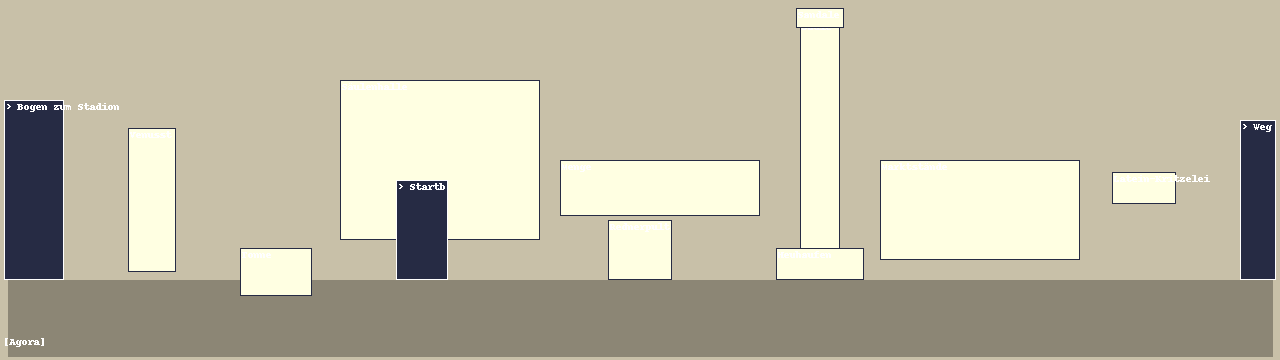
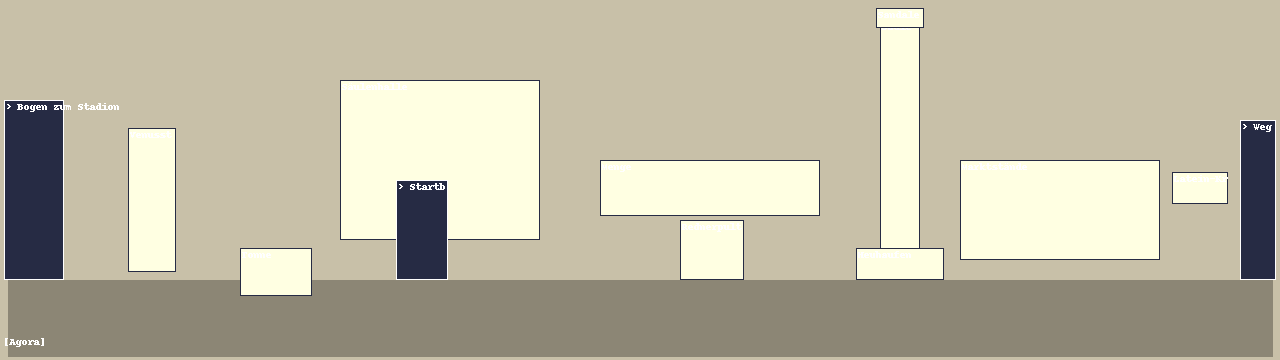
Welt 2: Motive an die Anordnung im Spiel angeglichen, Agora entzerrt
Fährsteg Olympia, Hafen Syrakus, Archimedes' Werkstatt, Startbüro und Agora beschrieben
Dinge in anderer Reihenfolge, als Layout, Klickflächen und Skizzen sie haben; die Motive folgen
jetzt dem Spiel. Agora: Rednerpult aus der Bildnaht in die rechte Hälfte, Säule, Heuhaufen und
Marktstände dahinter, Brian und Straßenmusiker nach links, Touristen mit mehr Abstand.
Palastküche, Sphinx und Grabhügel passten schon.

Changed region(s): [[0.4688, 0.0, 0.8125, 0.7944], [0.8438, 0.4278, 0.9688, 0.7333], [0.4375, 0.4278, 0.5, 0.6111]]

diff --git a/docs/grafik/welt-2.md b/docs/grafik/welt-2.md
@@ -57,16 +57,16 @@ Zu den Motiven: Jedes Motiv nennt links, Mitte und rechts in Bildrichtung, die A
 | Szene | Epoche | Zustände | Muss sichtbar sein | Motiv |
 | --- | --- | --- | --- | --- |
 | Nil-Delta mit Fährsteg | Ägypten | 1280×360, linke und rechte Hälfte einzeln erzeugen | Fährsteg ganz links mit offenem Wasser am Stegende für die Fähre, Tafel (Nahansicht) und Sanduhr am Steg, Schilf, Weizenfeld mit Handabdruck, verkehrte Pyramide im Hintergrund, Dünenpfad hinten rechts als Ausgang zur Sphinx (Sphinx klein am Horizont), Sandweg am rechten Bildrand als Ausgang zum Palast (Thronsaal). Ausschneiden: Papyrusblatt im Schilf. Eigene Sprites: Krokodil-Fähre, Sobek, Fährmann, Steinmetz; Deko-Sprite verkehrt gehaltener Bauplan | Sunny Nile riverbank at noon, wide 1280x360 scene built from two 640x360 halves that join seamlessly. LEFT HALF, left to right: a wooden ferry dock at the left edge reaching into turquoise water, with open water at its end; beside the dock a blank wooden sign board with three carved rows and a tall hourglass on a post; tall papyrus reeds with one loose blank sheet caught in them; open sandy ground. RIGHT HALF, left to right: a small field of golden wheat, one row of stalks pressed flat in the shape of a hand; open sandy ground; a narrow trail climbing a dune toward a tiny distant sphinx on the horizon; a sandy path leaving at the right edge toward a palace gate. Background across both halves: the wide river, and across it, behind the wheat field, a stone pyramid standing upside down on its tip with wooden scaffolding and tiny workers scratching their heads. Sandy floor with gentle depth in the lower third kept clear. Harsh sun from upper left |
-| Fährsteg Olympia | Griechenland | – | Fährsteg mit Sanduhr und Tafel (dieselbe Tafel wie in Ägypten), Fischerboot, Olivenbäume, Steinweg zur Agora rechts als Ausgang | Small wooden dock on a calm blue river among olive trees, bright midday, 640x360. Left: reeds and an empty wooden fishing boat pulled onto the bank. Center: the dock reaching into the water with open water at its end, a tall hourglass on a post and a blank wooden sign board with three carved rows. Right: a stone path climbing a hill to white marble columns, leaving at the right edge. Olive trees in the background. Grass and sand floor with gentle depth in the lower third kept clear. Sun from upper left |
-| Hafen Syrakus | Griechenland | – | Fährsteg mit Sanduhr (Sand ganz unten) und Tafel links, Kai mit Amphoren und Fischernetzen, Gasse zur Werkstatt rechts als Ausgang, Pfad zum Grabhügel im Hintergrund. Ausschneiden: Tintenfisch im Netz | Sunny harbor where the river meets the sea, 640x360, open sea behind. Left: the ferry dock with open water at its end, a tall hourglass on a post with all its sand in the lower bulb, a blank wooden sign board. Center: a stone quay with amphoras lined up and fishing nets hung to dry, one net sagging low with a small purple squid in it. Right: a narrow street climbing to a workshop with a smoking chimney and a big wooden gear above its door, leaving at the right edge; a path up a hill to cypress trees in the background. Seagulls. Stone quay floor with gentle depth in the lower third kept clear. Bright sun from upper left |
+| Fährsteg Olympia | Griechenland | – | Fährsteg ganz links mit offenem Wasser am Stegende, Sanduhr und Tafel (dieselbe Tafel wie in Ägypten) am Steg, Olivenbäume im Hintergrund, Fischerboot am Ufer rechts der Mitte, Steinweg zur Agora am rechten Rand als Ausgang. Eigenes Sprite: Fährmann | Small wooden dock on a calm blue river among olive trees, bright midday, 640x360. Left: the dock at the left edge reaching into the water with open water at its end, beside it a tall hourglass on a post and a blank wooden sign board with three carved rows. Center: open grassy ground, olive trees in the background behind it. Right of center: an empty wooden fishing boat pulled onto the bank, a few reeds. Right: a stone path climbing a hill to white marble columns, leaving at the right edge. Grass and sand floor with gentle depth in the lower third kept clear. Sun from upper left |
+| Hafen Syrakus | Griechenland | – | Fährsteg links mit Sanduhr (Sand ganz unten) und Tafel, offenes Meer dahinter, Fischernetze mit Tintenfisch, Pfad zum Grabhügel in der Mitte im Hintergrund, Amphoren am Kai rechts der Mitte, Gasse zur Werkstatt am rechten Rand als Ausgang. Ausschneiden: Tintenfisch im Netz. Eigenes Sprite: Fährmann | Sunny harbor where the river meets the sea, 640x360, open sea behind on the left. Left: the ferry dock at the left edge with open water at its end, a tall hourglass on a post with all its sand in the lower bulb, a blank wooden sign board. Left of center: fishing nets hung to dry on poles, one net sagging low with a small purple squid in it. Center, in the background: a path climbing a hill to cypress trees. Right of center: a stone quay with amphoras lined up. Right: a narrow street climbing to a workshop with a smoking chimney and a big wooden gear above its door, leaving at the right edge. Seagulls. Stone quay floor with gentle depth in the lower third kept clear. Bright sun from upper left |
 | Thronsaal | Ägypten innen | 1280×360, linke und rechte Hälfte einzeln erzeugen; die Parade findet im Stadion von Olympia statt | Ausgang links zum Nil-Delta, Platz für den Sarkophag, Schreiberpult, leere Wandnische, bemalte Säule mit Inschrift-Tafel (Nahansicht Hieroglyphen-Grammatik), Kissen mit Opferschale voller Datteln (Platz des Hofkaters), Thron auf Stufen, Fackeln, Tür zur Palastküche rechts, Wandfries über die ganze Rückwand. Ausschneiden: Pharaonenteller. Eigene Sprites: Ramses, Hofkater, Schreiber, Fächerwedler; Deko-Sprites Sarkophag mit Schlafmaske, mumifizierte Katze in der Nische | Grand Egyptian throne room, wide 1280x360 scene built from two 640x360 halves that join seamlessly, plenty of open floor between the furniture. LEFT HALF, left to right: the palace entrance at the left edge with free floor beside it; a scribe's low desk with a clay tablet and reed pens; a small empty wall niche above head height; a tall painted column; a second column with a sandstone panel set into it showing four empty symbol slots. RIGHT HALF, left to right: an empty silk cushion on the floor with a small bowl of dates beside it; a golden throne on three steps; a golden plate engraved with a sun on a low stand beside the throne; torches on the back wall; tall wooden doors to the palace kitchen at the right edge. Back wall across both halves: painted columns and a long frieze of people dancing sideways with angled arms, one holding a large portable stereo. Polished stone floor with gentle depth in the lower third kept clear. Torchlight and sunbeams from upper left |
 | Palastküche | Ägypten innen | – | Lehmöfen, Schneidetisch mit Brot, Zwiebeln und Datteln, Kräuter, Ölkrüge im Regal, Traubensaft-Amphore, Tür zum Thronsaal links. Ausschneiden: ein Ölkrug (ganzer Krug), Traubensaft-Amphore. Eigenes Sprite: Nebet; Deko-Sprite leere Amphoren in der freien Ecke | Ancient Egyptian palace kitchen, 640x360. Left: the doorway to the throne room at the left edge, two round clay ovens with open fire. Center: a cutting table with flat breads, onions and a bowl of dates, bundles of garlic and herbs hanging above it. Right: a wooden shelf with tall round clay oil jugs with cork stoppers, on the floor a clay amphora painted with grapes, and a free corner beside it. Packed clay floor with gentle depth in the lower third kept clear. Steam, warm orange light from upper left |
 | Sphinx | Ägypten | Mit Nase und ohne Nase | Sphinx mit Nase (zweite Fassung ohne Nase, Nase im Sand), Schreibpult mit Notizblock und zerknüllten Papyri, Steinkugel in der Rinne über dem Pult, Fußspuren, Weg zurück links zum Nil-Delta. Das Gesicht spricht selbst: Claude baut Mundbilder aus dem Hintergrund | A huge stone sphinx lying in the desert, seen from its side, head on the right, 640x360, its body filling the upper right half, nose intact. Center: in front of its paws a small writing desk with a notepad, crumpled papyrus balls scattered around it; above the desk, on a sloped stone ledge, a giant round stone ball resting in a carved groove. Left: open dunes, footprints in the sand, the path back at the left edge. Sand floor with gentle depth in the lower third kept clear. Blue sky, heat shimmer, harsh sun from upper left. Second version: identical, but the nose broken off and lying in the sand below the face |
-| Archimedes' Werkstatt | Griechenland | – | Badewanne, Werkbank mit Waage, Messbecher, Zahnrädern und Schriftrollen, Essigkrug, Brennspiegel, Wasserorgel, Skizze Kugel und Zylinder, Fenster, Tür rechts zum Hafen. Ausschneiden: Waage, Messbecher, Brennspiegel, Essigkrug. Eigene Sprites: Archimedes, Hieron, Wurfhebel (Große Objekte) auf der freien Fläche vor der Tür, Krone und Goldbarren aus dem Sammelbild; Deko-Sprites Bauplan Dampfmaschine, Modell schiefer Turm auf dem Regal | Cluttered ancient Greek inventor's workshop, 640x360. Left: a wide window at upper left, below it a marble bathtub full of water and a large polished bronze mirror on a stand. Center: a workbench with a bronze balance scale, a clay measuring cup, scattered gears and scrolls, a big clay jug with a painted sour face on the floor beside it. Right: a water organ with bronze pipes against the back wall, the workshop door at the right edge, free floor space in front of it. Back wall: pinned sketches, one clearly showing a sphere inside a cylinder, and an empty shelf. Floor with gentle depth in the lower third kept clear. Sunlight from upper left |
+| Archimedes' Werkstatt | Griechenland | – | Wasserorgel links an der Rückwand, Badewanne davor, Werkbank mit Waage, Messbecher, Zahnrädern und Schriftrollen, darüber Skizzen (Kugel und Zylinder, Dampfmaschine) und ein leeres Regal, breites Fenster rechts der Mitte mit freier Fläche darunter (Wurfhebel), Brennspiegel auf Ständer und Essigkrug rechts, Tür rechts zum Hafen. Ausschneiden: Waage, Messbecher, Brennspiegel, Essigkrug. Eigene Sprites: Archimedes, Hieron, Wurfhebel, Krone und Goldbarren aus dem Sammelbild; Deko-Sprites Bauplan Dampfmaschine, Modell schiefer Turm auf dem Regal | Cluttered ancient Greek inventor's workshop, 640x360. Left: a water organ with bronze pipes against the back wall, in front of it a marble bathtub full of water. Left of center: a workbench with a bronze balance scale, a clay measuring cup, scattered gears and scrolls; above it on the back wall pinned sketches, one clearly showing a sphere inside a cylinder, and a small empty shelf. Right of center: a wide window high on the back wall, open free floor below it. Right: a large polished bronze mirror on a stand, a big clay jug with a painted sour face on the floor, the workshop door at the right edge. Floor with gentle depth in the lower third kept clear. Sunlight from upper left through the window |
 | Grabhügel Syrakus | Griechenland | Leer und mit verwittertem Grabstein | Leerer Sockel in der Mitte (Grabstein als Sprite aus dem Sammelbild „Grabstein-Zustände“, auch der zerbröselte Haufen), alte Grabsteine, Brombeeren, Zypressen, Weg zum Hafen links. Eigene Sprites: Cicero, Archimedes | Overgrown hillside outside a Greek city, late afternoon, 640x360. Left: the path down to the harbor at the left edge, brambles and thorn bushes. Center: a small clearing with an empty square stone base. Right: old tombstones half hidden in the green, tall cypress trees, the city walls in the distance. Dry grass floor with gentle depth in the lower third kept clear. Warm light from upper left, cicadas on the branches. Second version: identical, on the base stands a weathered, moss-covered tombstone with a relief of a sphere inside a cylinder |
 | Stadion | Griechenland | 1280×360, linke und rechte Hälfte einzeln erzeugen; Normal und Parade (ab dem Ende des Finaltags) | Freie Fläche links für den Wurfhebel, Sandgrube mit Steinmäuerchen, Kampfrichterzelt, Laufbahn über die ganze Breite, Ehrenloge für Ramses in den Rängen, Startlinie rechts, Glockenturm im Hintergrund rechts (gerade, in der Parade-Fassung schief), Ausgang zur Agora am rechten Rand. Eigene Sprites: Leonidas, Hermes, Schildkröte, Wurfhebel, Ramses mit Hofstaat, Fächerwedler, Zeremonienmeister, Ägypter, Archimedes, Cicero; Deko-Sprite Siegerliste aus Stein | Ancient Greek stadium in bright sun, wide 1280x360 scene built from two 640x360 halves that join seamlessly, with lots of open ground for many people. LEFT HALF, left to right: open free ground at the left edge; a sand wrestling pit framed by a low stone wall; a small white judges' tent near the right end of the half. RIGHT HALF, left to right: open ground; a white stone start line across the track; far away a tall white marble bell tower standing perfectly straight; the path to the marketplace leaving at the right edge. Across both halves: a long sand running track along the floor, and behind it stone spectator rows with a cheering crowd, with a shaded seating box with an awning in the rows at the left end of the right half. Floor with gentle depth in the lower third kept clear. Sun from upper left. Second version for the victory parade: identical, with garlands, banners and flower petals everywhere, the bell tower now visibly leaning |
-| Startbüro | Griechenland | – | Startschalter links mit Formularberg, Bürgerschalter rechts mit Wachstafeln und Stempel, Aushang (Nahansicht), Bank mit Wartenden, Tür links zur Agora. Ausschneiden: ein leeres Formular vom Formularberg. Eigene Sprites: Beamter 1, Beamter 2 | Tiny ancient Greek office, 640x360. Left: the entrance door at the left edge, then a first counter with an empty stool behind towering stacks of scrolls and a heap of blank papyrus forms. Right: a second counter with wax tablets and a big wooden stamp, an empty stool behind it. Center back: a yellowed notice with blank lines pinned to the wall, below it a long bench with three bored waiting people. Dusty stone floor with gentle depth in the lower third kept clear. Dusty shafts of light from upper left |
-| Agora | Griechenland | Drei Fassungen: vor Tag 1; nach Tag 1 mit Sandale auf der Adler-Säule; nach dem Finaltag ohne Sandale und mit armloser Statue | 1280×360, linke und rechte Hälfte einzeln erzeugen. Säulenhalle, hohe Säule mit Adler, Venusstatue, Wand für die Latein-Kritzelei (von Hand), Rednerpult, Marktstände, Menge mit römischen Touristen im Hintergrund. Ausgänge: Bogen zum Stadion links, Tür zum Startbüro in der Säulenhalle, Weg zum Fährsteg rechts. Eigene Sprites: Cicero, Tiro, Brian, Philosoph in der Tonne, Touristin und Tourist, Straßenmusiker, Sandale aus dem Sammelbild; Deko-Sprite Heuhaufen am Fuß der Säule | Busy ancient Greek marketplace next to a stadium at noon, wide 1280x360 scene built from two 640x360 halves that join seamlessly. LEFT HALF, left to right: an arch toward the stadium at the left edge; a shaded marble colonnade with a small wooden office door in its back wall; a very tall column with a stone eagle on top and free ground at its foot; a marble statue of a woman with both arms intact; a plaster wall with a few faint blank scratch marks. RIGHT HALF, left to right: a raised stone speaker's platform; open ground; market stalls with fruit and pottery under striped awnings; a path down toward the river leaving at the right edge. Background across both halves: a crowd of Greeks in white and pale blue and tourists in red togas and straw sun hats. Paved floor with gentle depth in the lower third kept clear. Bright noon light from upper left. Second version: identical, a golden winged sandal caught on top of the eagle column. Third version: identical to the first, but the statue has lost both arms |
+| Startbüro | Griechenland | – | Tür links zur Agora, Aushang (Nahansicht) an der Wand über einer Bank mit drei Wartenden, erster Schalter mit leerem Hocker und Schriftrollen-Stapeln, zweiter Schalter mit Wachstafeln und Stempel, riesiger Formularberg am rechten Rand. Ausschneiden: ein leeres Formular vom Formularberg. Eigene Sprites: Beamter 1, Beamter 2 | Tiny ancient Greek office, 640x360. Left: the entrance door at the left edge, a yellowed notice with blank lines pinned to the wall next to it, below it a long bench with three bored waiting people. Center: a first counter with an empty stool behind it and towering stacks of scrolls; a second counter with wax tablets and a big wooden stamp, an empty stool behind it. Right: a huge heap of blank papyrus forms piled up to the ceiling at the right edge. Dusty stone floor with gentle depth in the lower third kept clear. Dusty shafts of light from upper left |
+| Agora | Griechenland | Drei Fassungen: vor Tag 1; nach Tag 1 mit Sandale auf der Adler-Säule; nach dem Finaltag ohne Sandale und mit armloser Statue | 1280×360, linke und rechte Hälfte einzeln erzeugen. Bogen zum Stadion am linken Rand, Venusstatue, freie Fläche für die Tonne des Philosophen, Säulenhalle mit Tür zum Startbüro, Rednerpult, hohe Säule mit Adler und freiem Boden davor (Heuhaufen), Marktstände, Wand für die Latein-Kritzelei (von Hand), Weg zum Fährsteg am rechten Rand, Menge mit römischen Touristen im Hintergrund. Eigene Sprites: Cicero, Tiro, Brian, Philosoph in der Tonne, Touristin und Tourist, Straßenmusiker, Sandale aus dem Sammelbild; Deko-Sprite Heuhaufen am Fuß der Säule | Busy ancient Greek marketplace next to a stadium at noon, wide 1280x360 scene built from two 640x360 halves that join seamlessly, with open ground between the landmarks. LEFT HALF, left to right: an arch toward the stadium at the left edge; a marble statue of a woman with both arms intact; open free ground; a shaded marble colonnade with a small wooden office door in its back wall; open ground. RIGHT HALF, left to right: a raised stone speaker's platform; a very tall column with a stone eagle on top and free ground at its foot; market stalls with fruit and pottery under striped awnings; a plaster wall with a few faint blank scratch marks; a path down toward the river leaving at the right edge. Background across both halves: a crowd of Greeks in white and pale blue and tourists in red togas and straw sun hats. Paved floor with gentle depth in the lower third kept clear. Bright noon light from upper left. Second version: identical, a golden winged sandal caught on top of the eagle column. Third version: identical to the first, but the statue has lost both arms |
 | Flusskarte | Ägypten | – | Reihenfolge der Anlegestellen flussabwärts: Ägypten, Olympia, Syrakus; drei klar getrennte Klickflächen. Namen und Jahreszahlen (112 und 25) von Hand | KARTE: illustrated map of one river flowing from the upper left to the lower right. Upper left: yellow desert with a small upside-down pyramid, a sphinx and a wooden dock. Middle: green olive hills with an oval stadium, white columns and a wooden dock. Lower right: a walled seaside city with a harbor where the river meets the sea. A tiny crocodile pulling a raft on the river. The three docks as clearly separated clickable spots, no text, no labels |
 
 ### Große Objekte

diff --git a/docs/grafik/fertige-prompts/welt-2.md b/docs/grafik/fertige-prompts/welt-2.md
@@ -124,7 +124,7 @@ macht Claude.
 
 ```text
 STYLE: Concept art for a 2D point-and-click adventure game in the style of classic 1990s adventure games, outdoor scene seen straight on like a wide stage, camera at the eye level of a standing person, horizon at about 40 percent of the image height, open walkable ground with gentle depth across the lower third kept free of objects except at the left and right edges, wide shot: a standing adult at the front edge would be about 52 percent of the image height, no top-down, bird's-eye or strong three-quarter view, no fisheye, every object drawn exactly as described and nothing added, signs and labels without any letters or numbers, light from the upper left with soft shadows to the lower right, humorous and whimsical.
-SCENE: Small wooden dock on a calm blue river among olive trees, bright midday, 640x360. Left: reeds and an empty wooden fishing boat pulled onto the bank. Center: the dock reaching into the water with open water at its end, a tall hourglass on a post and a blank wooden sign board with three carved rows. Right: a stone path climbing a hill to white marble columns, leaving at the right edge. Olive trees in the background. Grass and sand floor with gentle depth in the lower third kept clear. Sun from upper left.
+SCENE: Small wooden dock on a calm blue river among olive trees, bright midday, 640x360. Left: the dock at the left edge reaching into the water with open water at its end, beside it a tall hourglass on a post and a blank wooden sign board with three carved rows. Center: open grassy ground, olive trees in the background behind it. Right of center: an empty wooden fishing boat pulled onto the bank, a few reeds. Right: a stone path climbing a hill to white marble columns, leaving at the right edge. Grass and sand floor with gentle depth in the lower third kept clear. Sun from upper left.
 PALETTE: bright Mediterranean palette of white marble, olive green and deep blue sky, sunny and airy. Color anchors, approximate: marble white #ffffff, light grey #c0cbdc, olive green #3e8948, deep sky blue #0099db, sea blue #124e89.
 LAYOUT: Use the attached sketch only for the position and size of objects and exits, not for style, colors or text. Leave the orange marked spots empty.
 NEGATIVE: no characters, people or animals in the walkable area, no text, letters, numbers or logos, no faces or robot features on objects, no loose objects that can be picked up, no objects that are not described, no top-down, bird's-eye or fisheye view, no tilted floor, no photorealism, no 3D render, no blur, no watermark
@@ -138,7 +138,7 @@ NEGATIVE: no characters, people or animals in the walkable area, no text, letter
 
 ```text
 STYLE: Concept art for a 2D point-and-click adventure game in the style of classic 1990s adventure games, outdoor scene seen straight on like a wide stage, camera at the eye level of a standing person, horizon at about 40 percent of the image height, open walkable ground with gentle depth across the lower third kept free of objects except at the left and right edges, wide shot: a standing adult at the front edge would be about 52 percent of the image height, no top-down, bird's-eye or strong three-quarter view, no fisheye, every object drawn exactly as described and nothing added, signs and labels without any letters or numbers, light from the upper left with soft shadows to the lower right, humorous and whimsical.
-SCENE: Sunny harbor where the river meets the sea, 640x360, open sea behind. Left: the ferry dock with open water at its end, a tall hourglass on a post with all its sand in the lower bulb, a blank wooden sign board. Center: a stone quay with amphoras lined up and fishing nets hung to dry, one net sagging low with a small purple squid in it. Right: a narrow street climbing to a workshop with a smoking chimney and a big wooden gear above its door, leaving at the right edge; a path up a hill to cypress trees in the background. Seagulls. Stone quay floor with gentle depth in the lower third kept clear. Bright sun from upper left.
+SCENE: Sunny harbor where the river meets the sea, 640x360, open sea behind on the left. Left: the ferry dock at the left edge with open water at its end, a tall hourglass on a post with all its sand in the lower bulb, a blank wooden sign board. Left of center: fishing nets hung to dry on poles, one net sagging low with a small purple squid in it. Center, in the background: a path climbing a hill to cypress trees. Right of center: a stone quay with amphoras lined up. Right: a narrow street climbing to a workshop with a smoking chimney and a big wooden gear above its door, leaving at the right edge. Seagulls. Stone quay floor with gentle depth in the lower third kept clear. Bright sun from upper left.
 PALETTE: bright Mediterranean palette of white marble, olive green and deep blue sky, sunny and airy. Color anchors, approximate: marble white #ffffff, light grey #c0cbdc, olive green #3e8948, deep sky blue #0099db, sea blue #124e89.
 LAYOUT: Use the attached sketch only for the position and size of objects and exits, not for style, colors or text. Leave the orange marked spots empty.
 NEGATIVE: no characters, people or animals in the walkable area, no text, letters, numbers or logos, no faces or robot features on objects, no loose objects that can be picked up, no objects that are not described, no top-down, bird's-eye or fisheye view, no tilted floor, no photorealism, no 3D render, no blur, no watermark
@@ -211,7 +211,7 @@ NEGATIVE: no new objects, no changed camera or framing, no style change, no text
 
 ```text
 STYLE: Concept art for a 2D point-and-click adventure game in the style of classic 1990s adventure games, front view of the room with gentle one-point perspective, camera at the eye level of a standing person looking straight at the back wall, back wall parallel to the picture plane, vanishing point in the center at about 40 percent of the image height, side walls at most as narrow angled strips at the image edges, open walkable floor with gentle depth across the lower third to half of the image kept free of objects except at the left and right edges, wide shot from further back so the room feels spacious: a standing adult at the front edge would be about 52 percent of the image height, so doors and tall cupboards reach only about 50 percent of the image height, chairs about 25 percent and tables about 22 percent, no top-down, bird's-eye or strong three-quarter view, no fisheye, every object drawn exactly as described and nothing added, no faces or robot features on objects, small loose objects that can be picked up left out, book spines, calendars, posters and labels without any letters or numbers, light from the upper left with soft shadows to the lower right, humorous and whimsical, warm hand-painted look, 16:9, no text, no letters, no logos.
-SCENE: Cluttered ancient Greek inventor's workshop, 640x360. Left: a wide window at upper left, below it a marble bathtub full of water and a large polished bronze mirror on a stand. Center: a workbench with a bronze balance scale, a clay measuring cup, scattered gears and scrolls, a big clay jug with a painted sour face on the floor beside it. Right: a water organ with bronze pipes against the back wall, the workshop door at the right edge, free floor space in front of it. Back wall: pinned sketches, one clearly showing a sphere inside a cylinder, and an empty shelf. Floor with gentle depth in the lower third kept clear. Sunlight from upper left.
+SCENE: Cluttered ancient Greek inventor's workshop, 640x360. Left: a water organ with bronze pipes against the back wall, in front of it a marble bathtub full of water. Left of center: a workbench with a bronze balance scale, a clay measuring cup, scattered gears and scrolls; above it on the back wall pinned sketches, one clearly showing a sphere inside a cylinder, and a small empty shelf. Right of center: a wide window high on the back wall, open free floor below it. Right: a large polished bronze mirror on a stand, a big clay jug with a painted sour face on the floor, the workshop door at the right edge. Floor with gentle depth in the lower third kept clear. Sunlight from upper left through the window.
 PALETTE: bright Mediterranean palette of white marble, olive green and deep blue sky, sunny and airy. Color anchors, approximate: marble white #ffffff, light grey #c0cbdc, olive green #3e8948, deep sky blue #0099db, sea blue #124e89.
 LAYOUT: Use the attached sketch only for the position and size of objects and exits, not for style, colors or text. Leave the orange marked spots empty.
 NEGATIVE: no characters, people or animals in the walkable area, no text, letters, numbers or logos, no faces or robot features on objects, no loose objects that can be picked up, no objects that are not described, no top-down, bird's-eye or fisheye view, no tilted floor, no photorealism, no 3D render, no blur, no watermark
@@ -279,7 +279,7 @@ NEGATIVE: no new objects, no changed camera or framing, no style change, no text
 
 ```text
 STYLE: Concept art for a 2D point-and-click adventure game in the style of classic 1990s adventure games, front view of the room with gentle one-point perspective, camera at the eye level of a standing person looking straight at the back wall, back wall parallel to the picture plane, vanishing point in the center at about 40 percent of the image height, side walls at most as narrow angled strips at the image edges, open walkable floor with gentle depth across the lower third to half of the image kept free of objects except at the left and right edges, wide shot from further back so the room feels spacious: a standing adult at the front edge would be about 52 percent of the image height, so doors and tall cupboards reach only about 50 percent of the image height, chairs about 25 percent and tables about 22 percent, no top-down, bird's-eye or strong three-quarter view, no fisheye, every object drawn exactly as described and nothing added, no faces or robot features on objects, small loose objects that can be picked up left out, book spines, calendars, posters and labels without any letters or numbers, light from the upper left with soft shadows to the lower right, humorous and whimsical, warm hand-painted look, 16:9, no text, no letters, no logos.
-SCENE: Tiny ancient Greek office, 640x360. Left: the entrance door at the left edge, then a first counter with an empty stool behind towering stacks of scrolls and a heap of blank papyrus forms. Right: a second counter with wax tablets and a big wooden stamp, an empty stool behind it. Center back: a yellowed notice with blank lines pinned to the wall, below it a long bench with three bored waiting people. Dusty stone floor with gentle depth in the lower third kept clear. Dusty shafts of light from upper left.
+SCENE: Tiny ancient Greek office, 640x360. Left: the entrance door at the left edge, a yellowed notice with blank lines pinned to the wall next to it, below it a long bench with three bored waiting people. Center: a first counter with an empty stool behind it and towering stacks of scrolls; a second counter with wax tablets and a big wooden stamp, an empty stool behind it. Right: a huge heap of blank papyrus forms piled up to the ceiling at the right edge. Dusty stone floor with gentle depth in the lower third kept clear. Dusty shafts of light from upper left.
 PALETTE: bright Mediterranean palette of white marble, olive green and deep blue sky, sunny and airy. Color anchors, approximate: marble white #ffffff, light grey #c0cbdc, olive green #3e8948, deep sky blue #0099db, sea blue #124e89.
 LAYOUT: Use the attached sketch only for the position and size of objects and exits, not for style, colors or text. Leave the orange marked spots empty.
 NEGATIVE: no characters, people or animals in the walkable area, no text, letters, numbers or logos, no faces or robot features on objects, no loose objects that can be picked up, no objects that are not described, no top-down, bird's-eye or fisheye view, no tilted floor, no photorealism, no 3D render, no blur, no watermark
@@ -295,7 +295,7 @@ NEGATIVE: no characters, people or animals in the walkable area, no text, letter
 
 ```text
 STYLE: Concept art for a 2D point-and-click adventure game in the style of classic 1990s adventure games, outdoor scene seen straight on like a wide stage, camera at the eye level of a standing person, horizon at about 40 percent of the image height, open walkable ground with gentle depth across the lower third kept free of objects except at the left and right edges, wide shot: a standing adult at the front edge would be about 52 percent of the image height, no top-down, bird's-eye or strong three-quarter view, no fisheye, every object drawn exactly as described and nothing added, signs and labels without any letters or numbers, light from the upper left with soft shadows to the lower right, humorous and whimsical.
-SCENE: Busy ancient Greek marketplace next to a stadium at noon, wide 1280x360 scene built from two 640x360 halves that join seamlessly. LEFT HALF, left to right: an arch toward the stadium at the left edge; a shaded marble colonnade with a small wooden office door in its back wall; a very tall column with a stone eagle on top and free ground at its foot; a marble statue of a woman with both arms intact; a plaster wall with a few faint blank scratch marks. RIGHT HALF, left to right: a raised stone speaker's platform; open ground; market stalls with fruit and pottery under striped awnings; a path down toward the river leaving at the right edge. Background across both halves: a crowd of Greeks in white and pale blue and tourists in red togas and straw sun hats. Paved floor with gentle depth in the lower third kept clear. Bright noon light from upper left.
+SCENE: Busy ancient Greek marketplace next to a stadium at noon, wide 1280x360 scene built from two 640x360 halves that join seamlessly, with open ground between the landmarks. LEFT HALF, left to right: an arch toward the stadium at the left edge; a marble statue of a woman with both arms intact; open free ground; a shaded marble colonnade with a small wooden office door in its back wall; open ground. RIGHT HALF, left to right: a raised stone speaker's platform; a very tall column with a stone eagle on top and free ground at its foot; market stalls with fruit and pottery under striped awnings; a plaster wall with a few faint blank scratch marks; a path down toward the river leaving at the right edge. Background across both halves: a crowd of Greeks in white and pale blue and tourists in red togas and straw sun hats. Paved floor with gentle depth in the lower third kept clear. Bright noon light from upper left.
 PALETTE: bright Mediterranean palette of white marble, olive green and deep blue sky, sunny and airy. Color anchors, approximate: marble white #ffffff, light grey #c0cbdc, olive green #3e8948, deep sky blue #0099db, sea blue #124e89.
 LAYOUT: Use the attached sketch only for the position and size of objects and exits, not for style, colors or text. Leave the orange marked spots empty.
 NEGATIVE: no characters, people or animals in the walkable area, no text, letters, numbers or logos, no faces or robot features on objects, no loose objects that can be picked up, no objects that are not described, no top-down, bird's-eye or fisheye view, no tilted floor, no photorealism, no 3D render, no blur, no watermark

diff --git a/docs/grafik/fertige-prompts/welt-2-offen.md b/docs/grafik/fertige-prompts/welt-2-offen.md
@@ -11,7 +11,7 @@ Stand 14. November 2026, abends. Alles, was für Welt 2 aus Gemini kommen muss, 
 - Posenbögen: erst, wenn das Konzeptblatt der Figur fertig ist, und genau dieses anhängen. Misslungene Einzelposen im selben Chat nachbessern lassen.
 - Nahansichten und Tafeln: nichts anhängen.
 - Eigene Sprites (Figuren, Fähre, Wurfhebel, Deko) dürfen nicht im Raum mitgemalt sein. Gegenstände, die man mitnimmt, dürfen im Raum stehen; die schneidet Claude aus.
-- Breite Räume (1280×360: Nil-Delta, Thronsaal, Stadion, Agora): erst die linke Hälfte erzeugen, dann im selben Chat die rechte, die nahtlos anschließt. Zweitfassungen jeweils für die Hälfte, in der sich etwas ändert. Seit 14. November abends sind Nil-Delta, Thronsaal und Stadion breit, weil dort bis zu neun Figuren gleichzeitig stehen; ältere Prompts für diese drei Räume nicht mehr verwenden.
+- Breite Räume (1280×360: Nil-Delta, Thronsaal, Stadion, Agora): erst die linke Hälfte erzeugen, dann im selben Chat die rechte, die nahtlos anschließt. Zweitfassungen jeweils für die Hälfte, in der sich etwas ändert. Seit 14. November abends sind Nil-Delta, Thronsaal und Stadion breit, weil dort bis zu neun Figuren gleichzeitig stehen; ältere Prompts für diese drei Räume nicht mehr verwenden. Am selben Abend wurden außerdem die Motive von Fährsteg Olympia, Hafen Syrakus, Archimedes' Werkstatt, Startbüro und Agora an die Anordnung im Spiel angeglichen; auch hier nur noch die aktuellen Prompts nehmen.
 - Als PNG herunterladen und in `E:\Game Engine\Grafiken` ablegen, Name wie `Welt2-Thronsaal.png`.
 
 ## 1. Räume in Ägypten (Einstieg der Welt)
